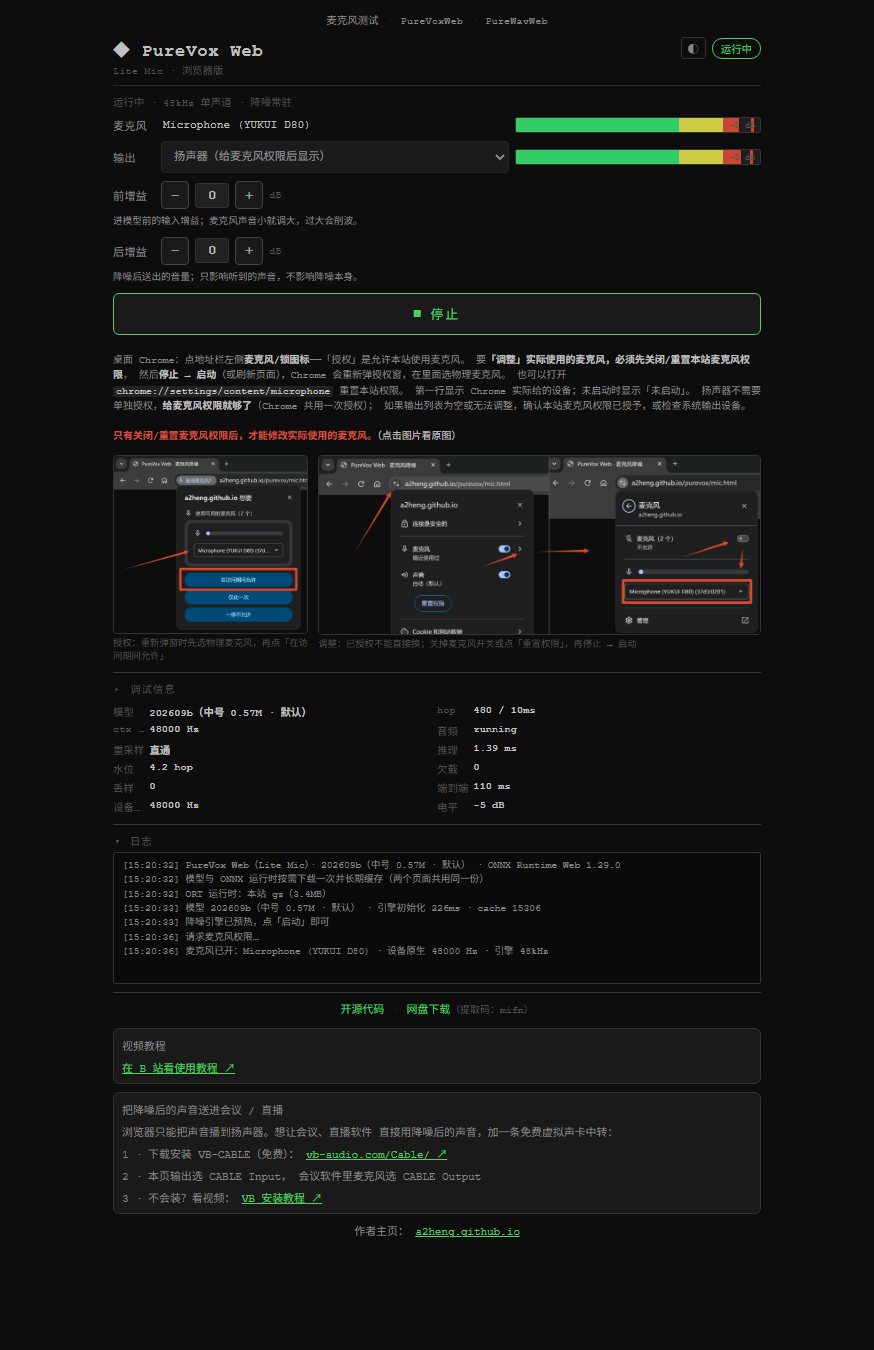
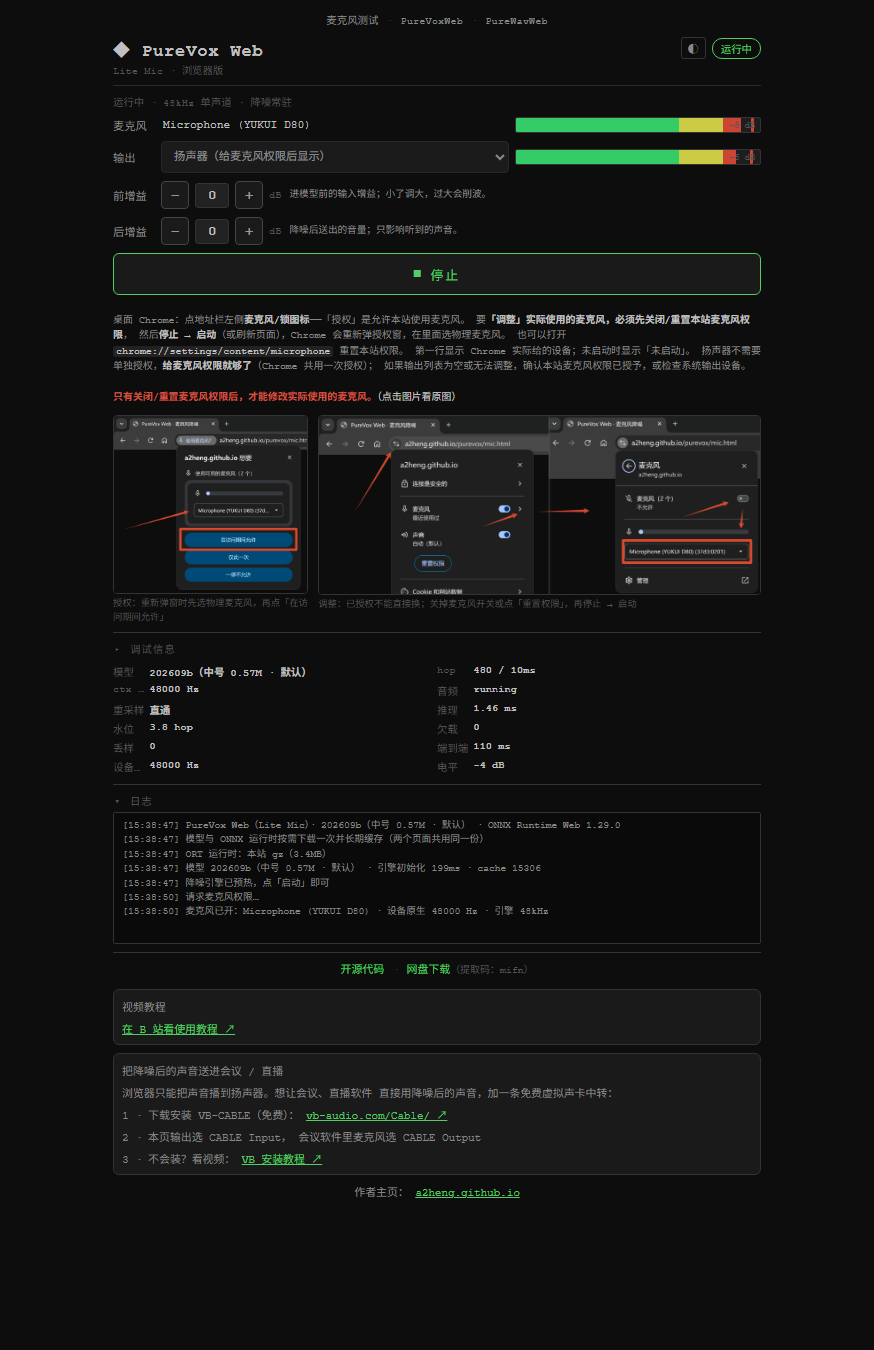
purevox: 增益描述放到控件同一行右侧；说明图任何宽度都左右并排
- 前/后增益描述改成行内 .gain-desc，跟在 dB 后面，不再另起一行
- 去掉窄屏把说明图竖排的规则：再窄也保持 1001:2271 左右两列、等高一排
- 增加 380px 窄屏截图 preview-narrow.png

Changed region(s): [[0.1236, 0.1244, 0.8959, 0.9333], [0.6796, 0.5911, 0.7105, 0.6222]]

diff --git a/purevox/mic.html b/purevox/mic.html
@@ -425,7 +425,6 @@ body {
 }
 @media (max-width: 620px) {
     #mic-hint, #mic-help { margin-left: 0; }
-    #mic-help { grid-template-columns: 1fr; }
     #vu-meter, #vu-out-meter { flex-basis: 34%; min-width: 72px; }
     #cur-mic-name { font-size: 0.65rem; }
     #mic-help figcaption { font-size: 0.56rem; }
@@ -474,9 +473,11 @@ body {
 /* ── 调试信息：固定行数表格（一行一项，列宽固定，数值再宽也不重排）── */
 #debug-section { border-top: 1px solid var(--border); padding-top: 8px; }
 .gain-desc {
-    margin: -2px 0 0 0;
+    flex: 1 1 auto;
+    min-width: 0;
+    margin-left: 2px;
     font-size: 0.6rem;
-    line-height: 1.45;
+    line-height: 1.4;
     color: var(--text-dim);
 }
 #debug-title { font-size: 0.65rem; color: var(--text-dimmer); margin-bottom: 6px; letter-spacing: 1px; }
@@ -572,16 +573,16 @@ body {
             <span id="gain-pre" class="step-val">0</span>
             <button id="gain-pre-inc" class="step-btn">+</button>
             <span class="unit">dB</span>
+            <span class="gain-desc">进模型前的输入增益；小了调大，过大会削波。</span>
         </div>
-        <div class="gain-desc">进模型前的输入增益；麦克风声音小就调大，过大会削波。</div>
         <div class="row">
             <span class="row-l">后增益</span>
             <button id="gain-post-dec" class="step-btn">−</button>
             <span id="gain-post" class="step-val">0</span>
             <button id="gain-post-inc" class="step-btn">+</button>
             <span class="unit">dB</span>
+            <span class="gain-desc">降噪后送出的音量；只影响听到的声音。</span>
         </div>
-        <div class="gain-desc">降噪后送出的音量；只影响听到的声音，不影响降噪本身。</div>
     </div>
 
     <!-- ── 主按钮 ── -->
